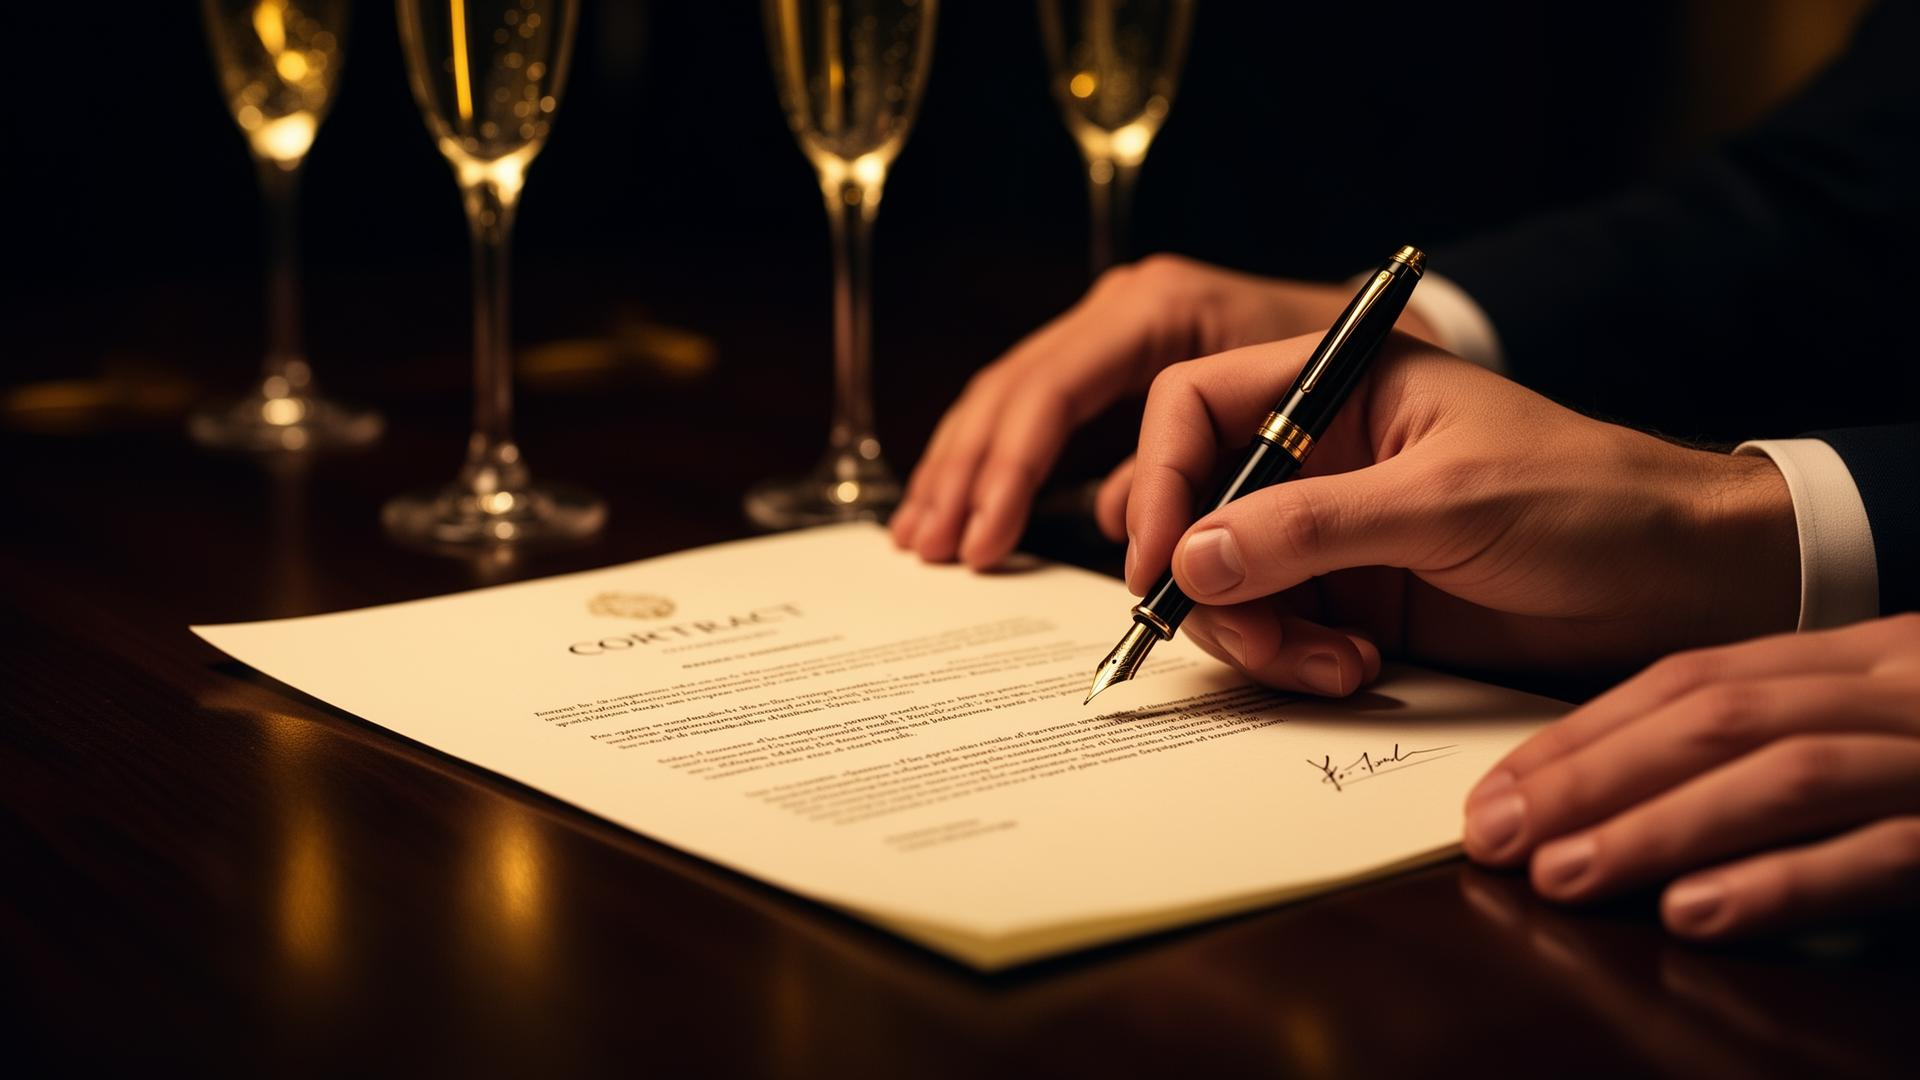
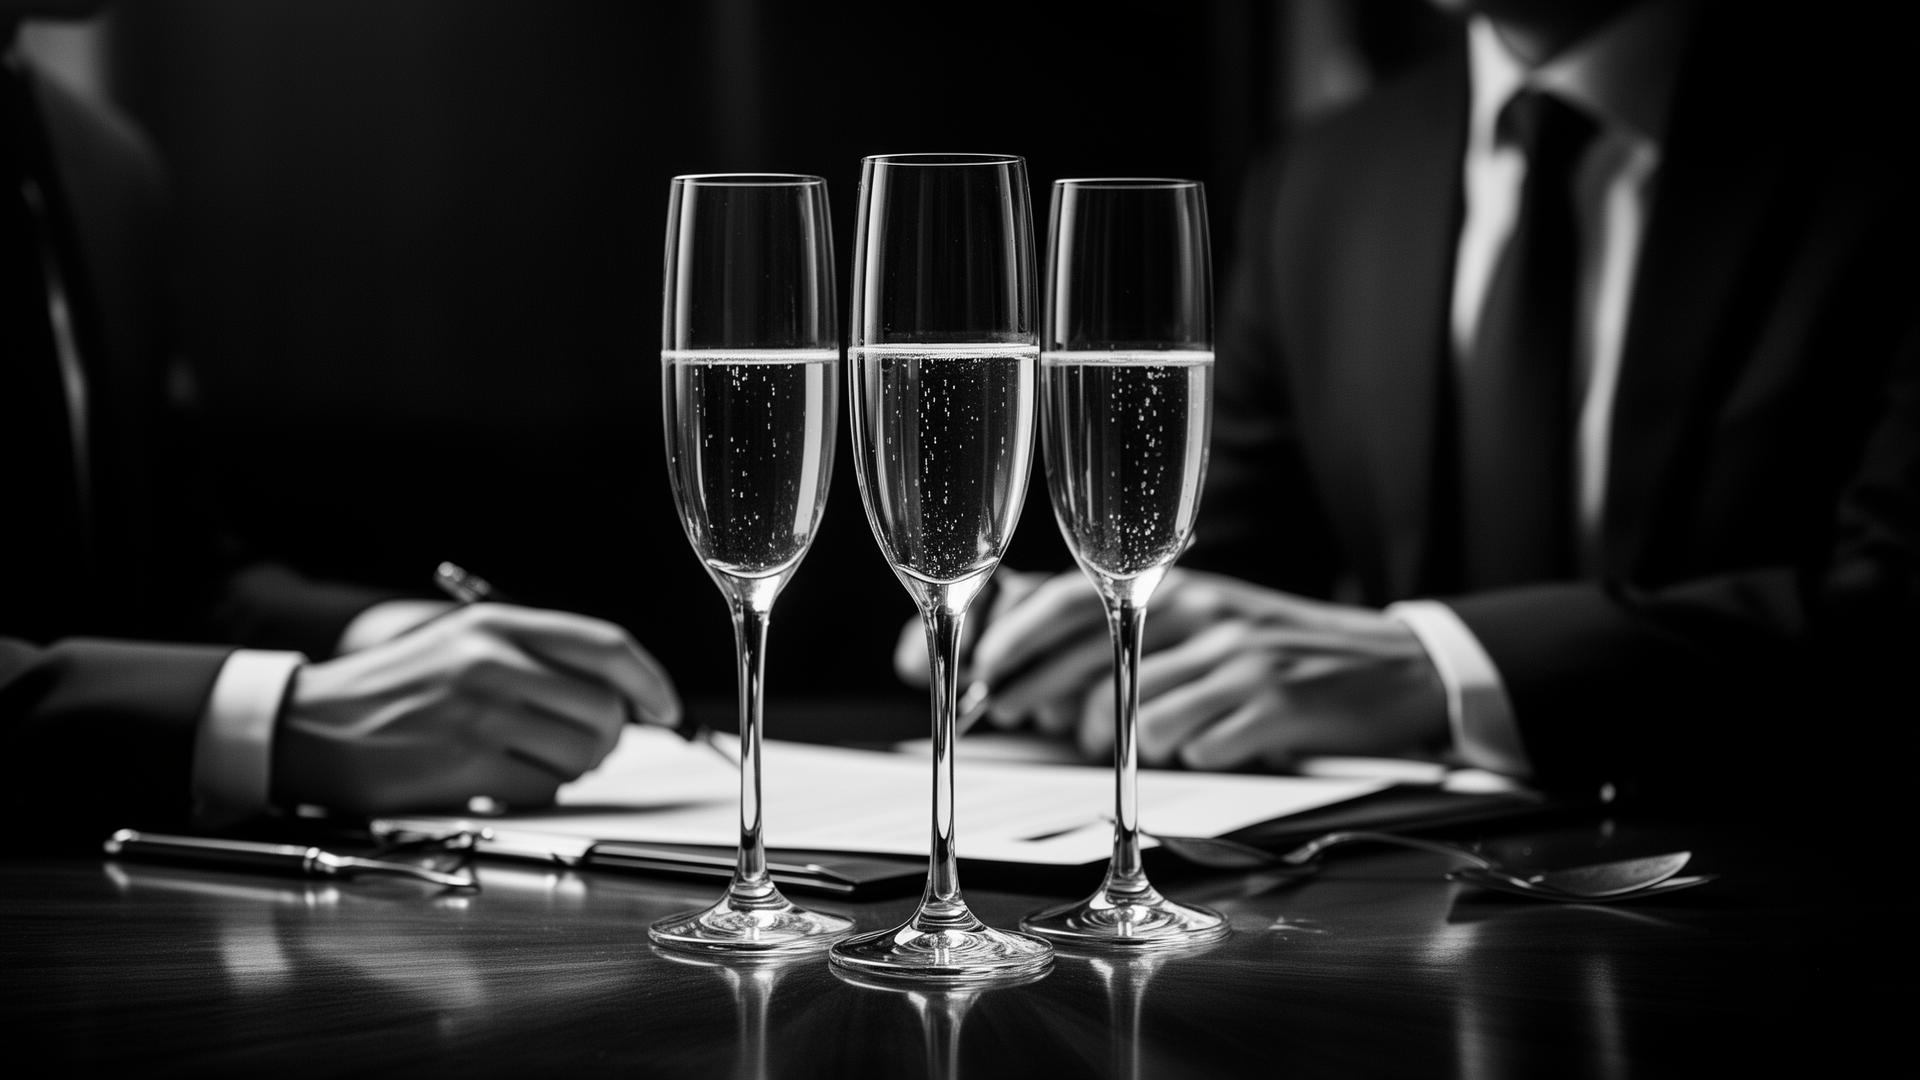
Changes

diff --git a/src/components/signature-deal/SignatureDealCTA.tsx b/src/components/signature-deal/SignatureDealCTA.tsx
@@ -10,9 +10,9 @@ export const SignatureDealCTA = () => {
 
   return (
     <section className="py-32 relative overflow-hidden" ref={containerRef}>
-      {/* Background image */}
+      {/* Background image - B&W */}
       <div 
-        className="absolute inset-0 bg-cover bg-center bg-no-repeat"
+        className="absolute inset-0 bg-cover bg-center bg-no-repeat grayscale"
         style={{ backgroundImage: `url(${ctaBg})` }}
       />
       
